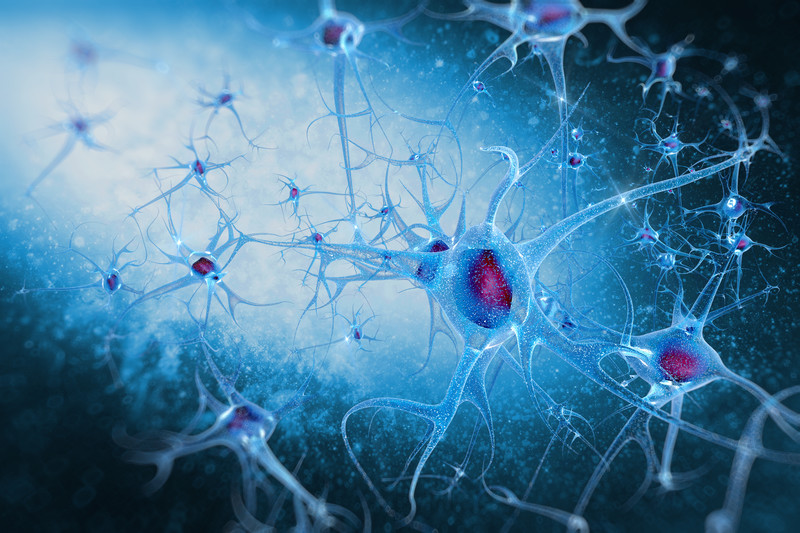
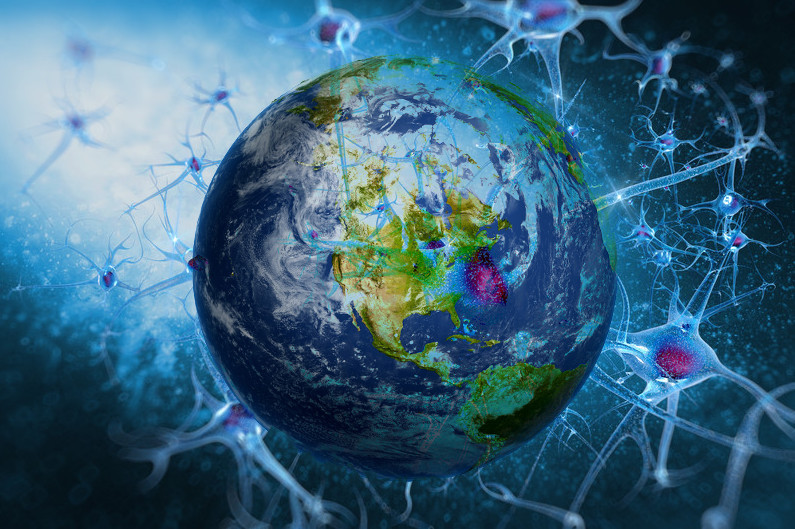
Added nervous_system.html

diff --git a/nervous_system.html b/nervous_system.html
@@ -1,0 +1,159 @@
+<!DOCTYPE html>
+<html lang="en">
+
+<head>
+<meta charset="utf-8">
+<title>ENVIROVER - Data Processing</title>
+<link rel="stylesheet" href="w3.css">
+<link rel="icon" href="http://envirover.com/favicon.png">
+<meta name="viewport" content="width=device-width, initial-scale=1.0">
+<meta name="description"
+	content="Mission planing, data collection, storing and processing systems.">
+<meta name="keywords"
+	content="autonomous boats, data processing, mission control, mission planing, iot, usv, satellite communication, mavlink, pakbus, short burst data, arcgis online, arcgis enterprise">
+<meta name="robots" content="all">
+</head>
+<body>
+	<!-- Navbar (sit on top) -->
+	<div>
+		<ul class="w3-navbar w3-white w3-wide w3-padding-8 w3-card-2">
+			<li><a href="index.html" class="w3-margin-left"><img
+					id="logo" src="images/logo.png" alt="ENVIROVER" /></a></li>
+			<!-- Float links to the right. Hide them on small screens -->
+			<li class="w3-right w3-hide-small"><a
+				href="index.html#solutions" class="w3-left">SOLUTIONS</a> <a
+				href="index.html#technology" class="w3-left">TECHNOLOGY</a> <a
+				href="index.html#about" class="w3-left">ABOUT</a> <a
+				href="index.html#contacts" class="w3-left w3-margin-right">CONTACTS</a>
+			</li>
+		</ul>
+	</div>
+	<!-- Header -->
+	<header class="w3-display-container w3-content w3-wide"
+		style="max-width: 1500px;" id="home">
+		<script>
+			(function(i, s, o, g, r, a, m) {
+				i['GoogleAnalyticsObject'] = r;
+				i[r] = i[r] || function() {
+					(i[r].q = i[r].q || []).push(arguments)
+				}, i[r].l = 1 * new Date();
+				a = s.createElement(o), m = s.getElementsByTagName(o)[0];
+				a.async = 1;
+				a.src = g;
+				m.parentNode.insertBefore(a, m)
+			})(window, document, 'script',
+					'https://www.google-analytics.com/analytics.js', 'ga');
+
+			ga('create', 'UA-86743417-1', 'auto');
+			ga('send', 'pageview');
+		</script>
+	</header>
+	<!-- Page content -->
+	<div class="w3-content w3-padding" style="max-width: 1564px">
+		<div class="w3-container w3-padding-32">
+			<h1>Nervous System for Planet Earth</h1>
+			<div class="w3-col">
+				<div class="w3-half w3-right w3-serif">
+					<p>
+						<i>“Gradually, GIS technology will evolve into a nervous
+							system for our planet where we, on an ongoing basis, measure and
+							encapsulate knowledge, share it, and respond to issues that
+							people care about and that need to be attended to around the
+							world.”</i>
+					</p>
+					<p class="w3-right">Jack Dangermond, President of Esri</p>
+				</div>
+			</div>
+			<p>&nbsp;</p>
+			<p>Smart devices, smart homes, smart cities,..., and finally a
+				smart planet.</p>
+			<p>To be “smart,” the planet would certainly need a brain or two.
+				To make smart decisions and turn them into smart actions, the brain
+				will need to know what’s going on. Even a very smart brain is
+				useless without a system that collects sensory information about the
+				environment and transmits “action items” from the brain to the
+				muscles that actually do the work.</p>
+			<p>Remote sensing technologies, such as satellite imagery, are
+				similar to vision in a biological nervous system. These technologies
+				provide a wealth of data about the planet, but, in many cases,
+				sensors must be “there” and must interact with the environment to
+				make measurements. In addition to vision, the planet needs
+				fingertips that are able to touch and scratch the surface.</p>
+			<div
+				class="w3-third w3-margin-right w3-padding-left w3-padding-top w3-padding-bottom w3-padding-right w3-left w3-border-grey">
+				<b>GeoNeurons and USVs are like fingertips used to touch and
+					scratch the planet’s surface.</b>
+				<img src="images/stationary_platform.jpg" alt="GeoNeuron"
+					style="width: 100%" />
+			</div>
+			<p>Envirover’s <a href="platforms.html#stationary_platform">GeoNeuron</a> is a device that functions like a
+				biological neuron in that it exchanges information between sensors,
+				actuators, and a data processing system.</p>
+			<p>GeoNeuron has two sets of registers, i.e., input registers and
+				output registers. Input registers maintain the current state of
+				connected sensors. Output registers keep the desired state of
+				actuators (i.e., servos that control gymbals, winches, or sampling
+				devices). During communication sessions, the content of the input
+				registers is sent to the device “shadow” in the communication
+				medium, such as <a href="https://aws.amazon.com/iot">Amazon Web Services Internet of Things (AWS IoT)</a>,
+				and the content of the output registers is received from the same
+				source.</p>
+			<p>Out of the box, GeoNeuron supports several types of water and
+				air-quality sensors. It also supports integration with <a href="https://www.campbellsci.com/dataloggers">Campbell
+				Scientific dataloggers</a>, which can read a wide variety of measurement
+				sensors.</p>
+			<p>GeoNeuron uses the <a href="https://www.iridium.com/services/details/iridium-sbd">Iridium Short Burst Data (SBD)</a> satellite
+				network for communication with the Internet. The Iridium SBD network
+				was not designed to transmit large datasets, such as pictures or
+				videos; rather, it is a simple and efficient network that provides
+				the capability of transmitting short data messages, thereby truly
+				providing global coverage.</p>
+			<div
+				class="w3-third w3-margin-right w3-padding-left w3-padding-top w3-padding-bottom w3-padding-right w3-right w3-border-grey">
+				<b>AWS IoT is the spinal cord of the planet’s nervous system.</b>
+				<img src="images/iot.png" alt="AWS IoT" style="width: 100%" />
+			</div>
+			<p>The AWS IoT communication medium is analogous to the spinal
+				cord in a nervous system. It is used to exchange information between
+				the “brain” and GeoNeurons, and it also triggers alerts, logs data,
+				and routes the information flow in the system.</p>
+			<p>Sometimes getting “there” requires too much time and money.
+				And sometimes, it is not even know where the “there” actually is.
+				This is when unmanned vehicles come into play.</p>
+			<p>Envirover’s <a href="platforms.html#raider_2">unmanned surface vehicles (USVs)</a> and other mobile
+				platforms are essentially GeoNeurons with propulsion and steering.
+				These platforms have a guidance, navigation, and control (GN&C)
+				system that also is known as ‘autopilot.’ Autopilot obtains the
+				actual position, orientation, and velocity from the GPS,
+				magnetometer, and inertial measurement unit, respectively, and
+				controls the propulsion and steering to move to the desired point,
+				follow the desired path, or “scan” the desired area. The autopilot
+				also can perform sensor-based guidance, e.g., it can find places
+				with the smallest/greatest readings of a certain sensor by using
+				gradient-descent search.</p>
+			<p>Multiple GeoNeurons or mobile platforms distributed over a
+				certain area can be used to solve complex, data-collection problems.</p>
+			<div
+				class="w3-third w3-margin-right w3-padding-left w3-padding-top w3-padding-bottom w3-padding-right w3-left w3-border-grey">
+				<b>ArcGIS is the brain of the planet’s nervous system.</b>
+				<img src="images/arcgis.jpg" alt="ArcGIS" style="width: 100%" />
+			</div>
+			<p>The actual and desired states of GeoNeurons and mobile
+				platforms can be synchronized with spatial databases in geographic
+				information systems (GISs) on the web, such as <a href="https://www.arcgis.com/home/index.html">ArcGIS Online</a> or
+				<a href="http://www.esri.com/en/arcgis/products/arcgis-enterprise/Overview">ArcGIS Enterprise</a>. The desired states of the devices can be changed
+				by simply changing the attributes in a table. GIS can be used to
+				store, visualize, and analyze the collected data and to control the
+				data “collectors” with complex orchestration.</p>
+			<p>In Envirover, we assess new ways of exploring our planet.
+				Envirover’s mission is to make our planet smarter by providing
+				next-generation, environmental-intelligence solutions.</p>
+		</div>
+	</div>
+	<!-- Footer -->
+	<footer class="w3-center w3-blue w3-padding-16">
+		<p>©Copyright 2017 Envirover</p>
+		<a href="sponsors.html">Contribute to the Project.</a>
+	</footer>
+</body>
+</html>

diff --git a/platforms.html b/platforms.html
@@ -49,8 +49,8 @@
   
   <!--Stationary Platform Section -->
   <div class="w3-container w3-padding-32" id="stationary_platform">
-    <h3 class="w3-border-bottom w3-border-light-grey w3-padding-12">EnviNerve</h3>
-    <p>EnviNerve is a rugged solar-powered stationary sensor platform that uses Iridium satellite short burst data (SBD) service for communication.</p>
+    <h3 class="w3-border-bottom w3-border-light-grey w3-padding-12">GeoNeuron</h3>
+    <p>GeoNeuron is a rugged solar-powered stationary sensor platform that uses Iridium satellite short burst data (SBD) service for communication.</p>
 	<div class="w3-col l3 m6 w3-margin-bottom">
 		<img src="images/stationary_platform.jpg" alt="Stationary Platform" style="width:100%"/>
 	</div>

diff --git a/index.html b/index.html
@@ -34,7 +34,7 @@
   <img class="w3-image" src="images/nervoussystem.jpg" alt="Environmental Intelligence" width="1500" height="800">
   <div class="w3-display-middle w3-margin-top w3-center">
     <h1 class="w3-xxlarge w3-text-white">
-    <a href="platforms.html#stationary_platform" style="text-decoration: none;">
+    <a href="nervous_system.html" style="text-decoration: none;">
     <span class="w3-padding w3-white w3-text-blue">Nervous System</span><br />
     <span class="w3-text-purple"><b>for</b></span><br/>
     <span class="w3-padding w3-blue w3-opacity-min"><b>Planet Earth</b></span></a>
